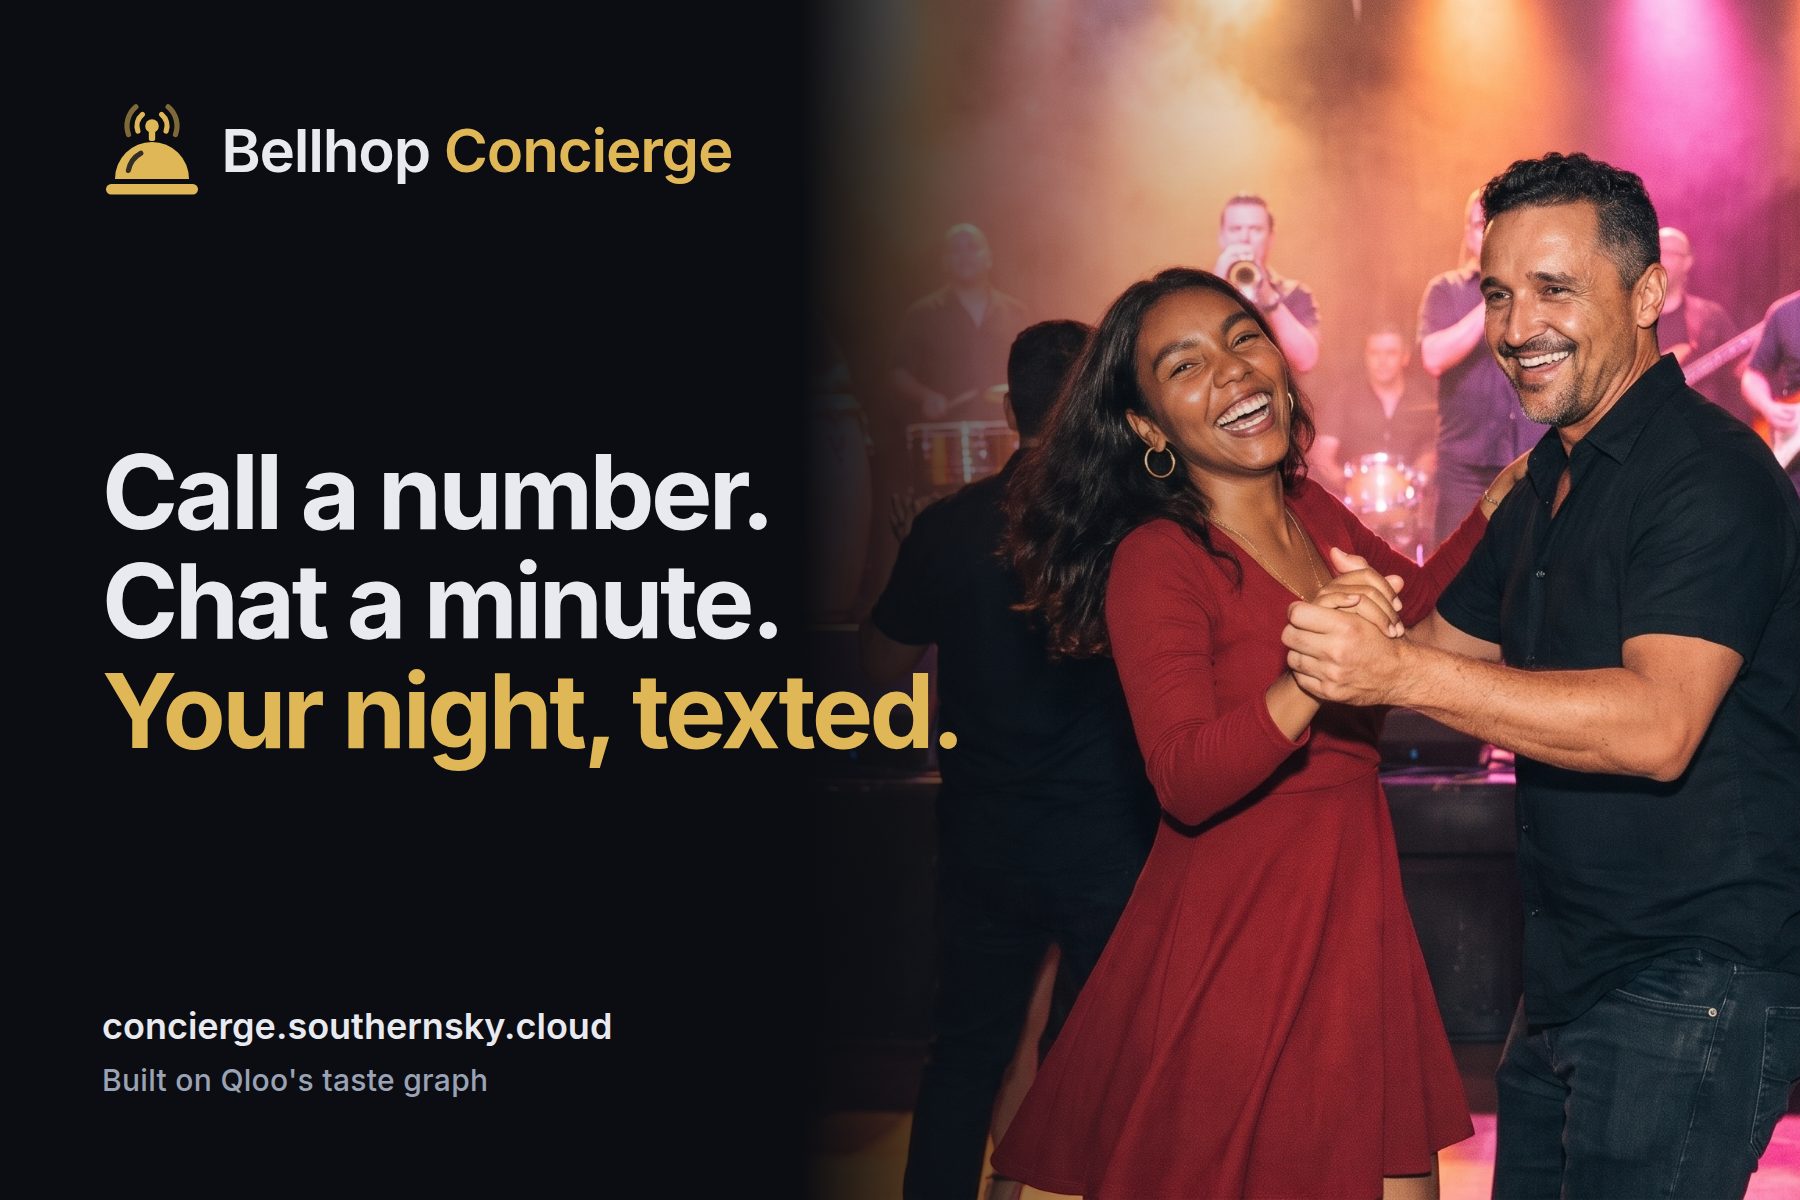
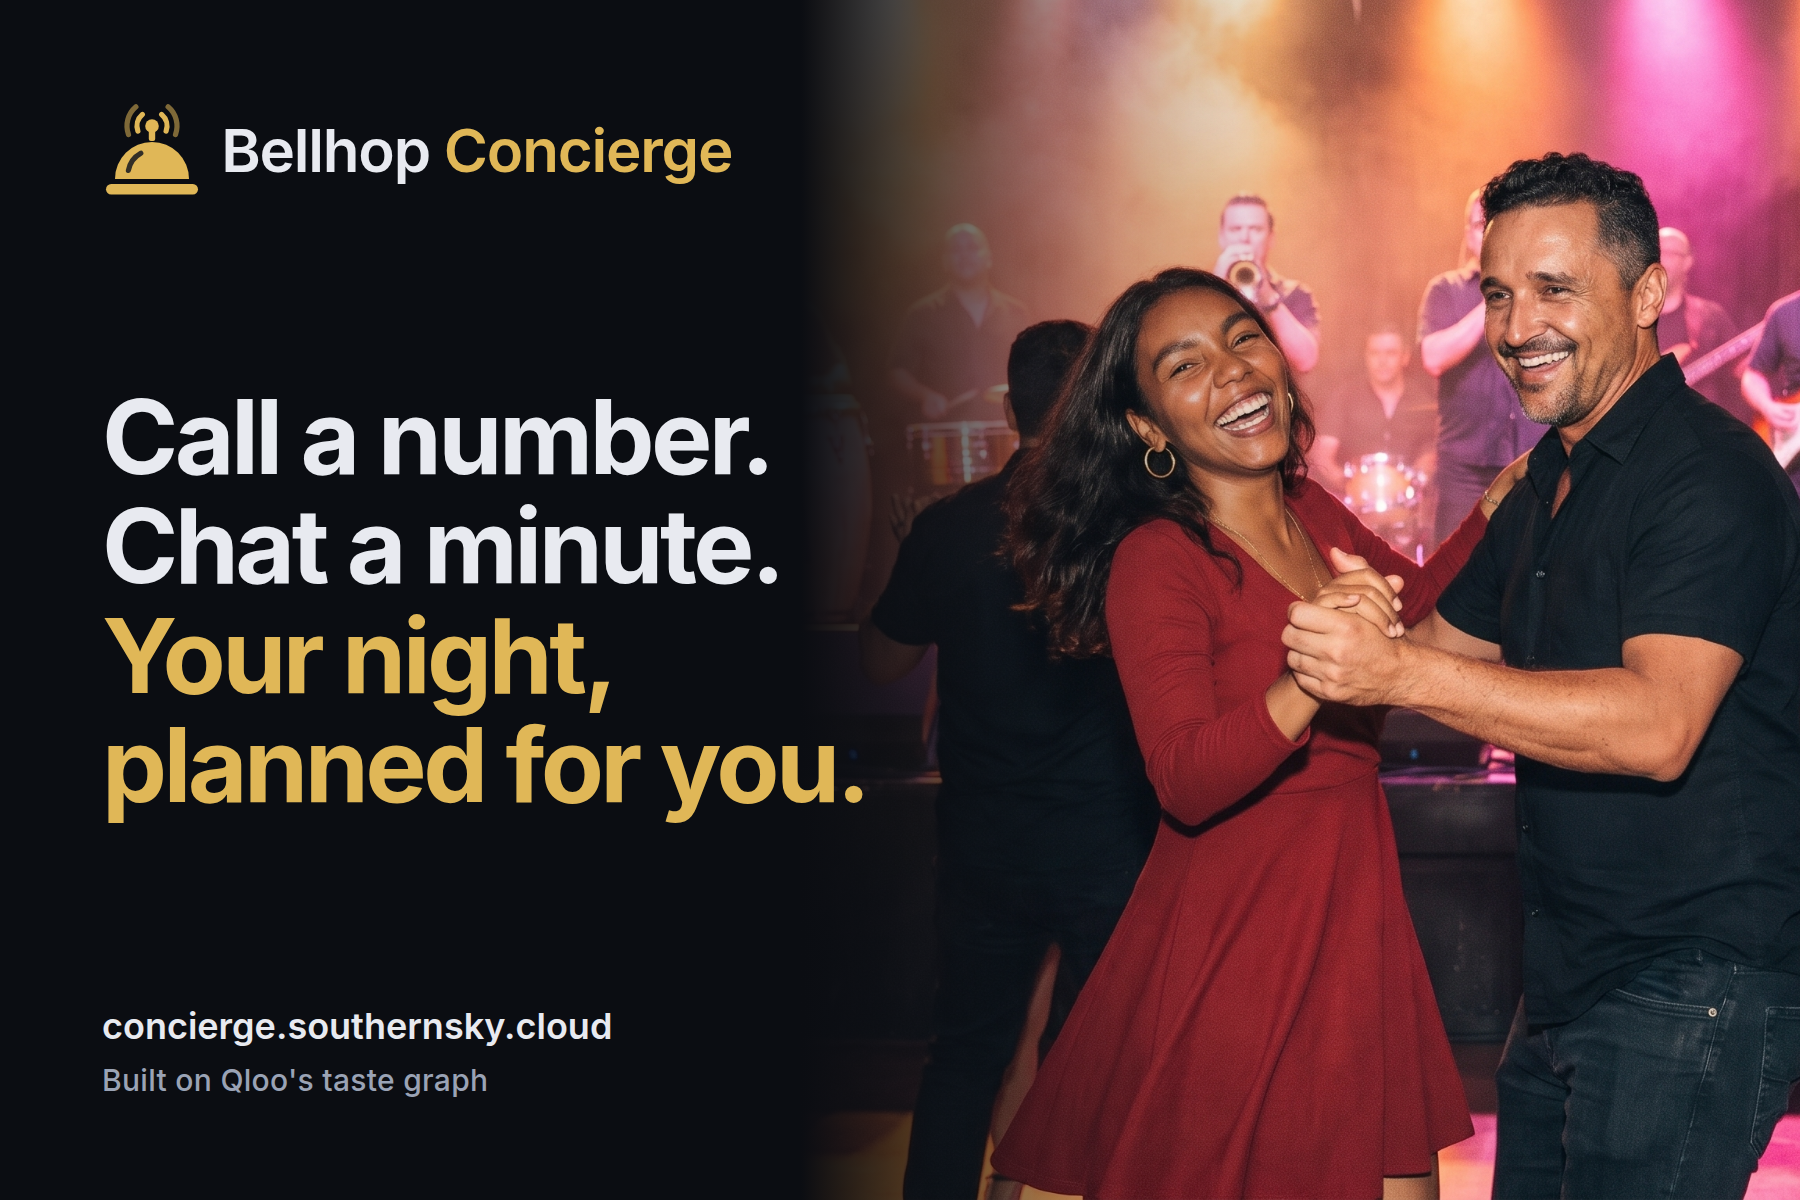
Tagline: your night, planned for you

Changed region(s): [[0.0622, 0.3083, 0.5289, 0.6783]]

diff --git a/dashboard/index.html b/dashboard/index.html
@@ -7,7 +7,7 @@
     <meta name="description" content="Bellhop Concierge, a product of SouthernSky: a phone concierge for small inns and short-term rentals. Picks from Qloo's taste graph, with the reason for each." />
     <meta property="og:site_name" content="SouthernSky" />
     <meta property="og:title" content="Bellhop Concierge" />
-    <meta property="og:description" content="Call a number. Chat a minute. Your night, texted. A phone concierge for small inns and short-term rentals, built on Qloo's taste graph." />
+    <meta property="og:description" content="Call a number. Chat a minute. Your night, planned for you. A phone concierge for small inns and short-term rentals, built on Qloo's taste graph." />
     <meta property="og:image" content="https://concierge.southernsky.cloud/share.png" />
     <meta property="og:image:width" content="1800" />
     <meta property="og:image:height" content="1200" />

diff --git a/dashboard/src/content/landing.js b/dashboard/src/content/landing.js
@@ -65,7 +65,7 @@ export const STEPS = {
   items: [
     { id: 'call', kicker: '01', title: 'Call.', body: 'The number on the room card. A warm voice asks about your night.' },
     { id: 'learn', kicker: '02', title: 'It learns what you love.', body: 'Not a quiz. You just talk; the tastes come out on their own.' },
-    { id: 'text', kicker: '03', title: 'Your night, texted.', body: 'One pick at a time, with the reason in your own words. Powered by Qloo\'s taste graph.' },
+    { id: 'text', kicker: '03', title: 'Your night, planned for you.', body: 'Sent by text, one pick at a time, with the reason in your own words. Powered by Qloo\'s taste graph.' },
   ],
   stage: {
     ringing: 'Calling',
